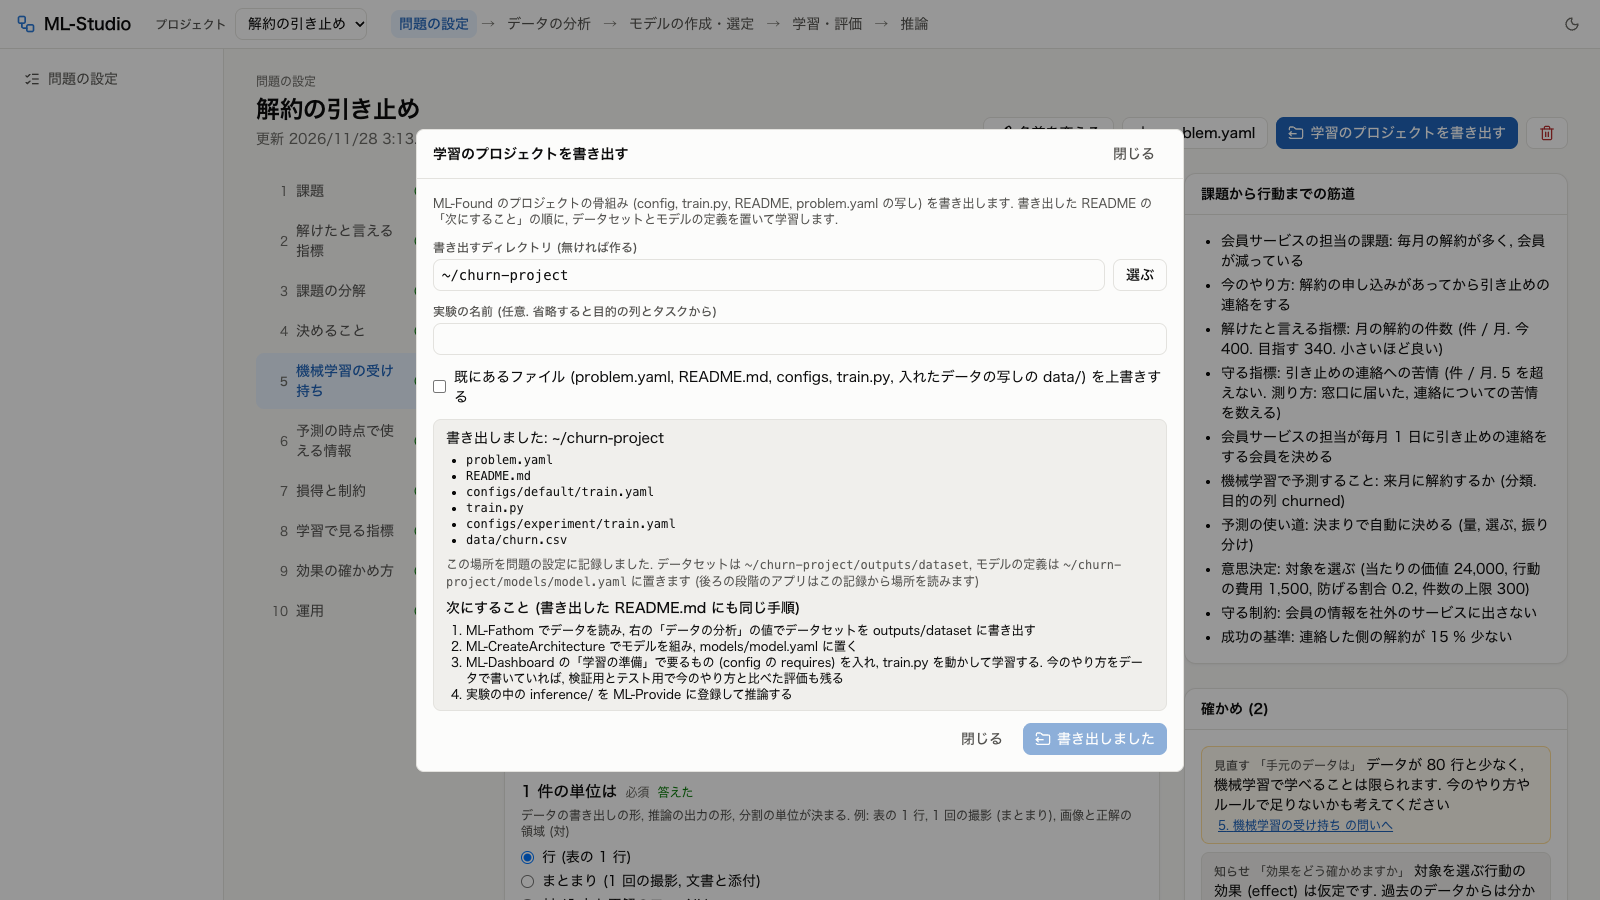
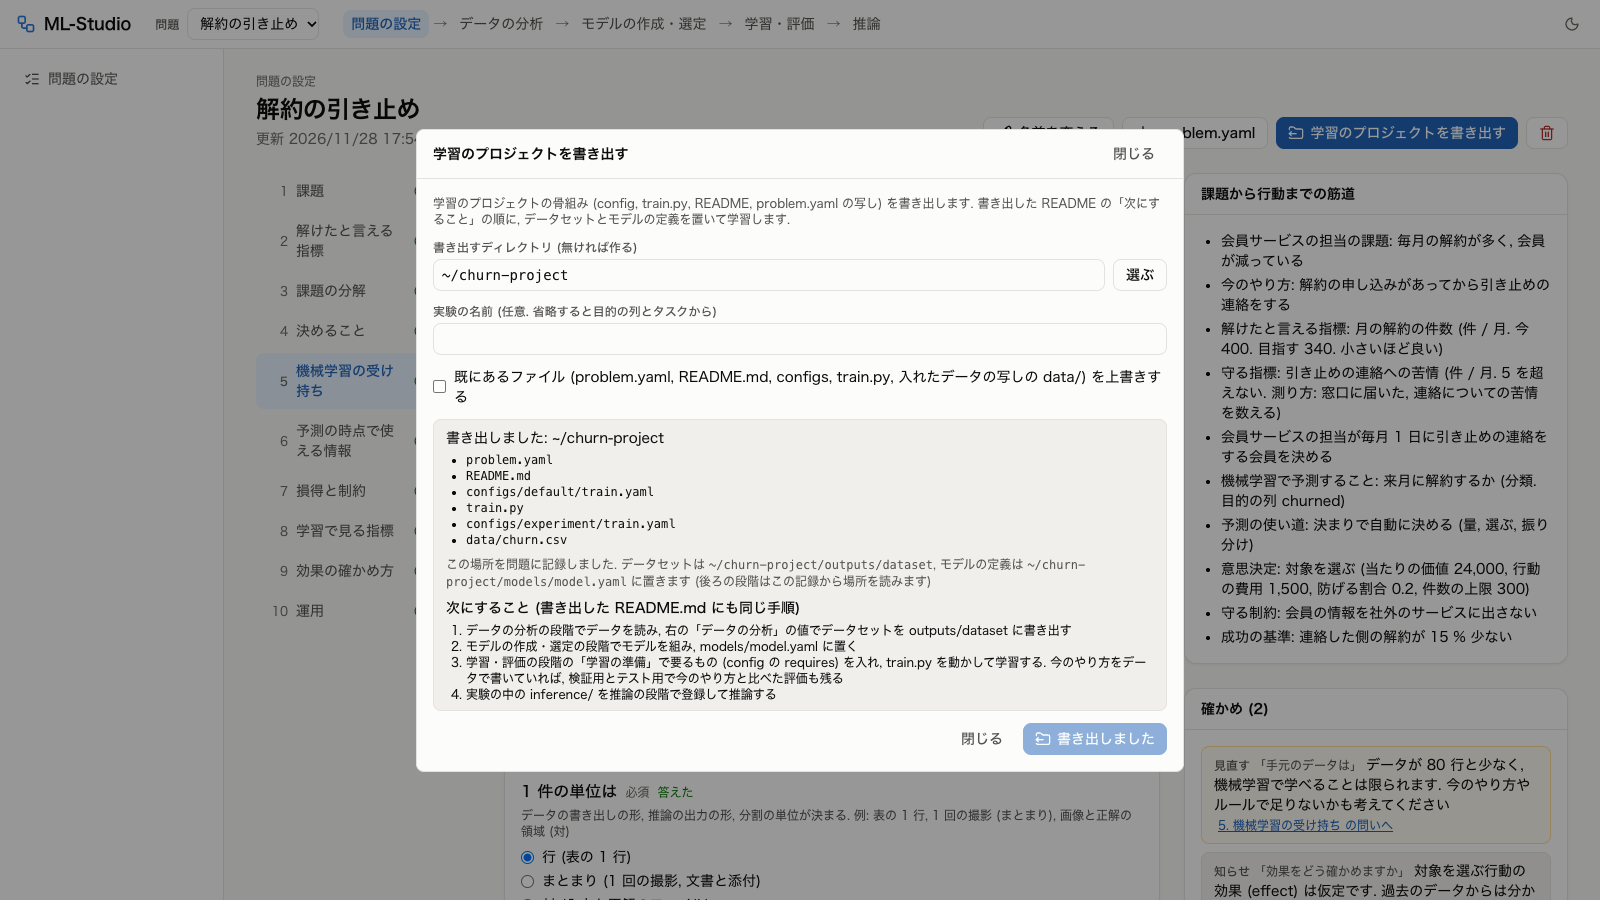
README と操作ガイドの画面の例を今の画面で撮り直す (#43)
* README と操作ガイドの画面の例を今の画面で撮り直す

* TODO.md の torchaudio の項目を上流の版を待つ条件待ちに移す

---------

diff --git a/TODO.md b/TODO.md
@@ -1,23 +1,15 @@
 # TODO
 
 このリポジトリでまだやっていないことを, 優先度の順に並べる. 終えたら消す.
-優先度: 高・中・低は相対で, 項目があるかぎり高と中を空にしない. 高 = 今の節目「5 つの段階のアプリを 1 つのアプリに統合する」に要るものと, リポジトリの間の食い違い. 中 = 高の次に進めるもの. 低 = 残り (まだ扱っていない型を足す作業もここに置く). 条件待ち = 実例か利用者の判断が要る.
+優先度: 高・中・低は相対で, 項目があるかぎり高と中を空にしない. 高 = 今の節目「5 つの段階のアプリを 1 つのアプリに統合する」に要るものと, リポジトリの間の食い違い. 中 = 高の次に進めるもの. 低 = 残り (まだ扱っていない型を足す作業もここに置く). 条件待ち = 実例か利用者の判断か上流の版が要る.
 
 ## 優先度 高
 
-### 画面の例の画像を撮り直す
-- 何を: README と docs/GUIDE.md の画像 (`docs/images/*.png`, `docs/images/guide/*.png`) を撮り直す. 今の画像は上の帯の欄の名前が「プロジェクト」のまま写っている. 次の画像は, 段階の画面の文も前の語のまま写っている (括弧の中は今の画面の文): `docs/images/export.png` (「この場所を問題に記録しました」), `docs/images/guide/data_start.png` (「選んだ問題」のカードと「この問題から始める」), `docs/images/guide/model_project.png` (「データセットと学習のプロジェクト」の対話の「選んだ問題」と「学習のプロジェクトに保存」), `docs/images/guide/train_start.png` (「選んだ問題」の欄), `docs/images/guide/infer_register.png` (「全ての問題の実験を出す」)
-- なぜ: 画面の欄の名前は「問題」で, 段階の画面の語も表に合い, 各段階の頭の見出しも段階の名前になったので, 文と画像の語が食い違うため
-- 終わりの条件: 全ての画像の上の帯に「問題」の欄が写り, 段階の画面の語と頭の見出しが今の画面と同じになる
-- つながり: 無し
+無し
 
 ## 優先度 中
 
-### Linux の殻で torchaudio の部品を使えるようにする
-- 何を: 上流が殻の torch (2.15) に合う torchaudio を出したら, Linux で `make extras EXTRAS=torchaudio` (と `all`) を足して torchaudio の部品が使えるかを確かめ, 要るなら殻の lock の torch の版を合わせる (今は PyPI にも CPU の index にも torch 2.15 に合う torchaudio が無く, 2.11 までしか無い)
-- なぜ: torch 2.15 と torchaudio 2.11 の上流の版のずれで, Linux では torchaudio を読み込めず, torchaudio の部品が使えないため
-- 終わりの条件: Linux で torchaudio を足した殻で, モデルの作成・選定の段階の部品の一覧に torchaudio の部品が使えると出る. docs/DESIGN.md の 6 と 8 の節, README, docs/GUIDE.md の Linux の断りを消す
-- つながり: 無し
+無し
 
 ## 優先度 低
 
@@ -25,4 +17,6 @@
 
 ## 条件待ち
 
-無し
+### Linux の殻で torchaudio の部品を使えるようにする
+- 何を: Linux で `make extras EXTRAS=torchaudio` (と `all`) を足して torchaudio の部品が使えるかを確かめ, 要るなら殻の lock の torch の版を合わせる. docs/DESIGN.md の 6 と 8 の節, README, docs/GUIDE.md の Linux の断りを消す (torch 2.15 と torchaudio 2.11 の上流の版のずれで, Linux では torchaudio を読み込めない)
+- 待っているもの: 上流が殻の torch (2.15) に合う torchaudio を出すこと (今は PyPI にも CPU の index にも無く, 2.11 までしか無い)

diff --git a/README.md b/README.md
@@ -24,7 +24,7 @@
     <td><b>学習・評価</b>. 記録した学習のプロジェクトを登録し, 画面から学習を起動して進み具合を見る</td>
   </tr>
   <tr>
-    <td><img src="docs/images/infer.png" alt="推論: 実験から登録した推論の一式で手元の表を推論した結果. 結論の件数と, 意思決定 (だから何をするか)"></td>
+    <td><img src="docs/images/infer.png" alt="推論: 実験から登録した推論の一式で, 元のデータセットのテスト用の分割を推論した結果. 結論の件数と, 意思決定 (だから何をするか)"></td>
     <td><img src="docs/images/dark.png" alt="暗い表示: 上の帯の切り替えで, 推論の結果の画面も暗い表示になる"></td>
   </tr>
   <tr>
